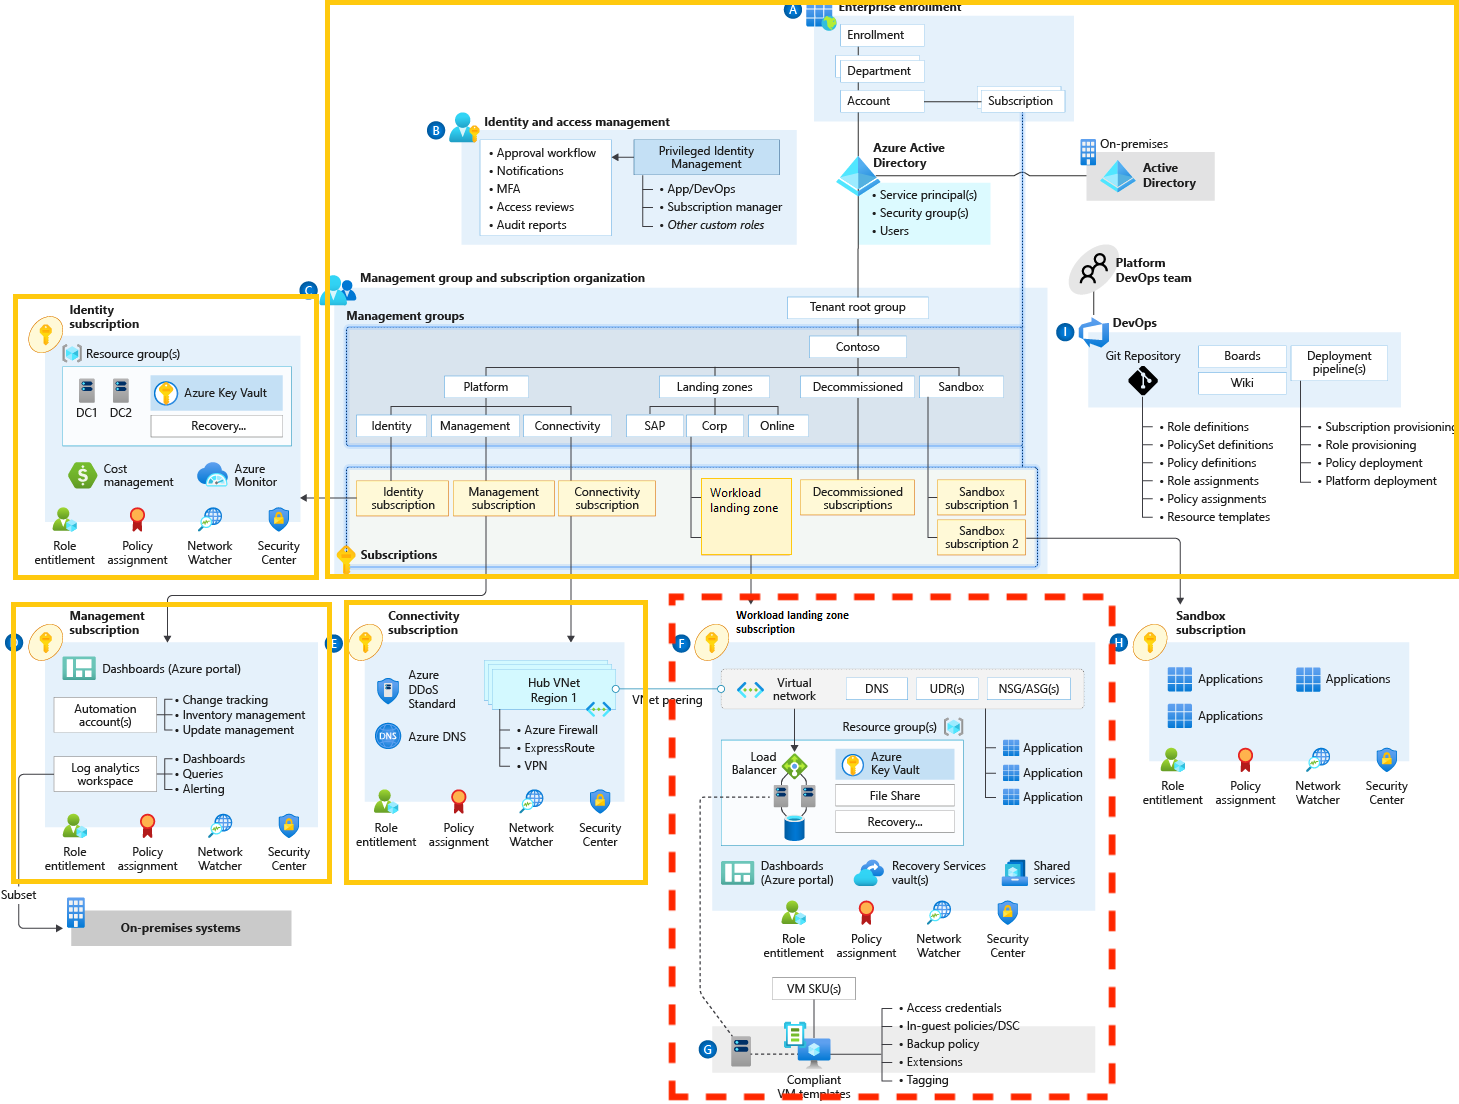
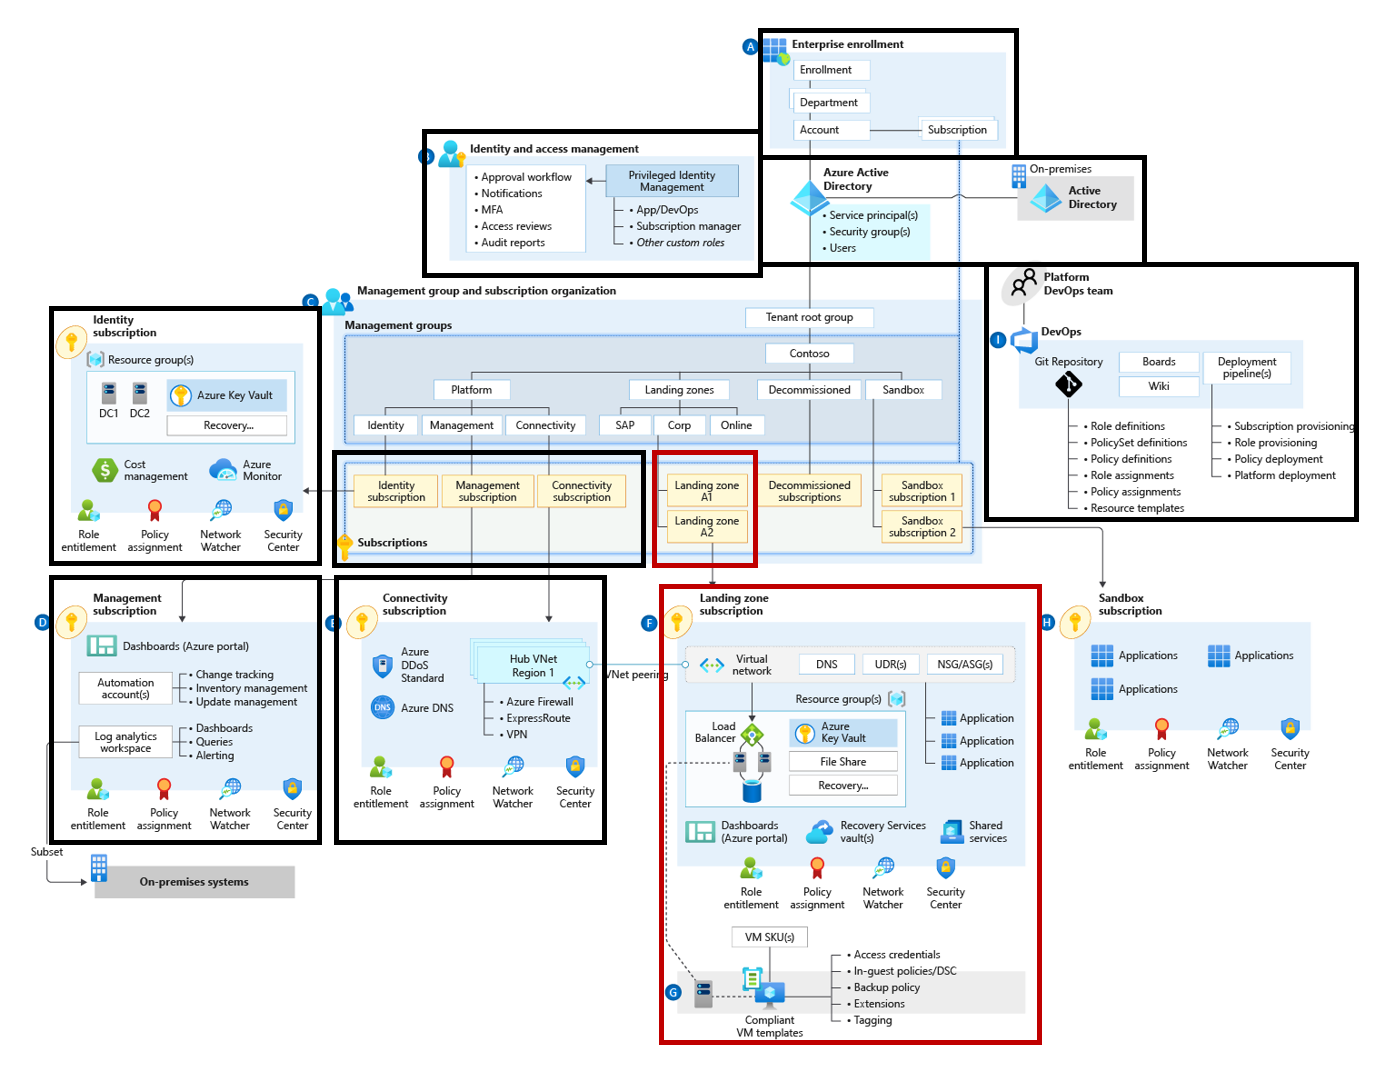
updated LZ image and content around it

Changed region(s): [[0.0, 0.0, 1.0, 1.0]]

diff --git a/docs/scenarios/defense/plan.md b/docs/scenarios/defense/plan.md
@@ -30,12 +30,12 @@ Cloud brokers provided the following benefits:
 
 A landing zone includes all the components defense workloads need for secure, reliable, and cost-effective cloud operations. There are two types of landing zones, platform landing zones and workload landing zones.
 
-***Platform landing zone*** - The platform landing zone provides core services used by multiple workloads. The three subscriptions outlined in yellow form the platform landing zone. Together they provide shared identity, management, and connectivity solutions to the workloads in this tenant.
+***Platform landing zone*** - The platform landing zone provides core services used by multiple workloads. In the sample architecture below, the components and subscriptions outlined in black comprise the platform landing zone. Together they provide shared services, such as identity, management, and connectivity, to the workloads in this tenant.
 
-***Workload landing zone*** - The workload landing zones are for workloads, applications and their supporting components. The red box outlines the workload landing zone.
+***Workload landing zone*** - The workload landing zones are for workloads. The red boxes outline the workload landing zones. There are two workload landing zone subscriptions in the diagram below("Landing zone A1" and "Landing Zone A2"), but only one is shown in detail.
 
-:::image type="content" source="./images/cloud-broker-landing-zone.png" alt-text="Diagram of an Azure landing zone architecture. A red box around the landing zone subscription outlines mission owner responsibilities with a cloud broker. The cloud broker handles the rest of the architecture." border="false":::
-*Diagram 2: Azure landing zone architecture with mission owner responsibilities outlined in red*
+:::image type="content" source="./images/cloud-broker-landing-zone.png" alt-text="Diagram of an Azure landing zone architecture. A sample architecture showing the platform landing zone and workload landing zones. It shows the Azure Active Directory tenant with management groups underneath. The management groups divide into platform, landing zones, decommissioned, and sandbox. Under these management groups and children management groups with subscriptions beneath them. The architecture shows the contents of these subscriptions. The platform landing zone management group contains identity, management, and connectivity subscriptions. There are black boxes around the platform landing zone subscriptions. The workload landing zone management group contains two workload landing zone subscriptions. The contents of one is shown in detail. There are red boxes around the workload landing zone subscriptions.  " border="false":::
+*Diagram 2: Sample architecture showing the platform landing zone and workload landing zones*
 
 Without a cloud broker, mission owners would be responsible for the workload landing zone and platform landing zone. But with a cloud broker, mission owners can focus on optimizing workloads to meet mission objectives. Cloud brokers bear the technical responsibility for the core services in the platform landing zone.
 
